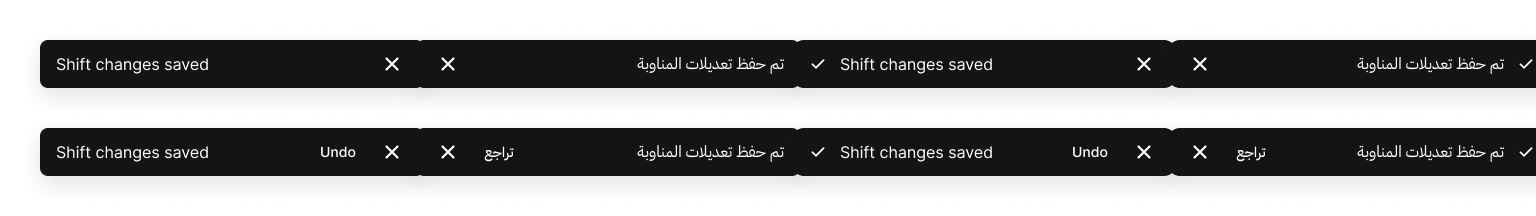
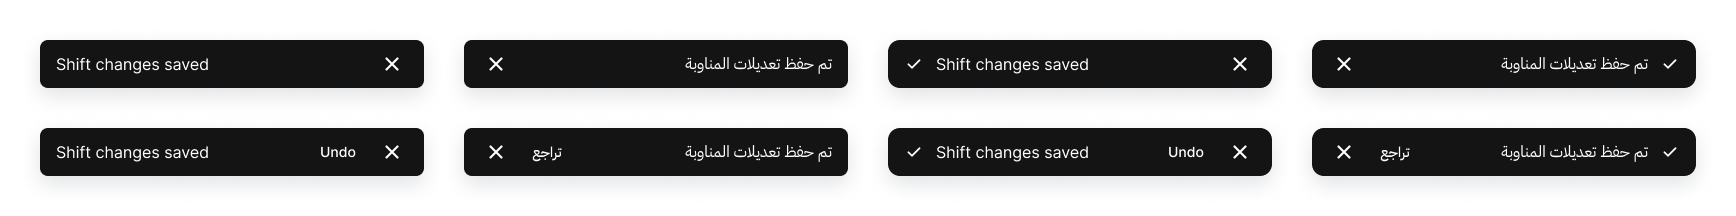
fix(mobile/snackbar): resolve round 4 review findings (R4-M1 set grid layout, D11)

diff --git a/biowave-ds/5-mobile-components/components/snackbar/snackbar.md b/biowave-ds/5-mobile-components/components/snackbar/snackbar.md
@@ -419,10 +419,10 @@ Component description: "A brief, high-contrast inverse bar at `layer-toast` (150
 
 | Field | Value |
 |---|---|
-| Agent / stages run | build · rtl · qa · document · review fixes (findings 2, 3, 4, 8, round 3 R3-2, R3-3, R3-4, R3-5) |
+| Agent / stages run | build · rtl · qa · document · review fixes (findings 2, 3, 4, 8, round 3 R3-2..5, round 4 R4-M1) |
 | Date | 2026-11-18 |
 | Node IDs | page `181:16392` · component section `181:16393` · component set `181:16450` (8 variants) · docs section `181:23218` · pages `181:21194` (00) · `181:21312` (01) · `181:21446` (02) · `181:21947` (03) · `181:22068` (04) · `181:22246` (05) · `181:22395` (06) · `181:22620` (07) · `181:22782` (08) · `181:22861` (09) · `181:23105` (11) · Components List card `181:27154` |
-| QA report | 8 variants in Set `181:16450`. R3-2 fixed: all 16 close button vector fills bound to `color/icon/inverse` (`VariableID:f1c29644d88c107b8e40c4ba2dd9e5c8d9667fde/5231:121`) yielding crisp white glyph with 18.42:1 contrast (WCAG AAA) on inverse container. R3-3 fixed: leading and trailing chevrons removed from action Button in all 4 `With action` variants (text-only `Undo` / `تراجع`). R3-4 fixed: leading check icon default visibility configured per OS — Android variants default to `Show icon = false` (icon hidden by default, matching M3 snackbar spec), iOS variants default to `Show icon = true` (visible by default). Variants arranged in 4-column grid (Android EN/AR, iOS EN/AR). R3-5 docs fitting fixed: all 11 doc page frames and row containers use vertical auto-layout HUG; Page 02 token code cells wrapped across lines; Page 07 Platform `Devices row` laid out vertically (`layoutMode = VERTICAL`, 992px wide, HUG), containing Android and iOS device frames stacked cleanly inside the 1024 page; section pages arranged in clean 3-column grid with 120px inter-row gaps. Official review docs-fit check returned `{ edge: 0, spill: 0 }` across all 11 pages (0/0). Visual inspection of all screenshots (`mobile-snackbar-set.png`, `mobile-snackbar-docs.png`) confirmed zero overlap, no crossing of page boundaries or footers. Review lint: `issues: []` |
+| QA report | 8 variants in Set `181:16450`. R3-2 fixed: all 16 close button vector fills bound to `color/icon/inverse` (`VariableID:f1c29644d88c107b8e40c4ba2dd9e5c8d9667fde/5231:121`) yielding crisp white glyph with 18.42:1 contrast (WCAG AAA) on inverse container. R3-3 fixed: leading and trailing chevrons removed from action Button in all 4 `With action` variants (text-only `Undo` / `تراجع`). R3-4 fixed: leading check icon default visibility configured per OS — Android variants default to `Show icon = false` (icon hidden by default, matching M3 snackbar spec), iOS variants default to `Show icon = true` (visible by default). R4-M1 fixed: variants arranged in clean 4-column grid with 40px gaps (x: 40, 464, 888, 1312, y: 40, 128) eliminating all variant overlap. R3-5 docs fitting fixed: all 11 doc page frames and row containers use vertical auto-layout HUG; Page 02 token code cells wrapped across lines; Page 07 Platform `Devices row` laid out vertically (`layoutMode = VERTICAL`, 992px wide, HUG), containing Android and iOS device frames stacked cleanly inside the 1024 page; section pages arranged in clean 3-column grid with 120px inter-row gaps. Official review docs-fit check returned `{ edge: 0, spill: 0 }` across all 11 pages (0/0). Visual inspection of all screenshots (`mobile-snackbar-set.png`, `mobile-snackbar-docs.png`) confirmed zero overlap, no crossing of page boundaries or footers. Review lint: `issues: []` |
 
 **Deviations:**
 - none
@@ -440,6 +440,7 @@ Component description: "A brief, high-contrast inverse bar at `layer-toast` (150
 
 | Round | Date | Code verdict | Figma verdict |
 |---|---|---|---|
+| Round 4 | 2026-11-18 | — | Fixed (R4-M1 set grid layout, lint 0) |
 | Round 3 | 2026-11-18 | — | Fixed (R3-2 close inverse, R3-3 chevrons off, R3-4 Android icon default, R3-5 docs fit 0/0, lint 0) |
 | Round 2 | 2026-11-18 | — | Fixed (Findings 2, 3, 4, 8 resolved, lint 0) |
 | Round 1 | 2026-11-17 | — | Changes requested (2026-11-17-wave9-feedback-review.md) |
